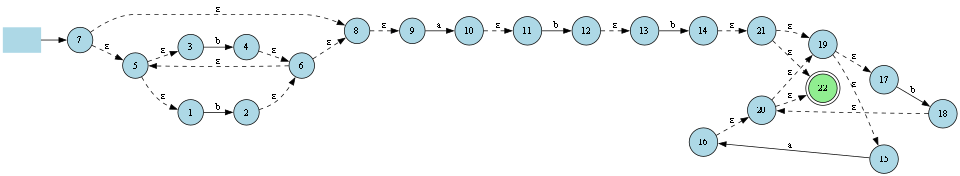
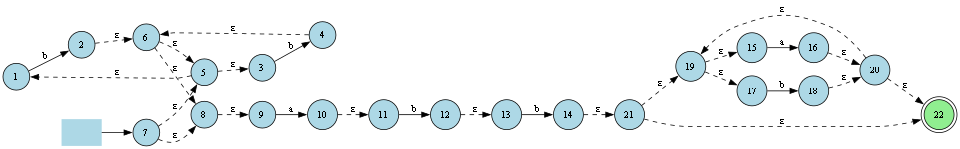
AFD minimizado

Changed region(s): [[0.0, 0.0805, 1.0, 0.9933], [0.125, 0.0537, 0.3438, 0.1074]]

diff --git a/automata.py b/automata.py
@@ -2,6 +2,7 @@ import graphviz
 from collections import deque
 import json
 import os
+from copy import deepcopy
 
 class State:
     def __init__(self, state_id):
@@ -456,6 +457,137 @@ class Automata:
         except Exception as e:
             print(f"Error al generar AFD: {e}")
 
+    def minimize_afd(self, afd: AFD, keep_trap: bool = False) -> AFD:
+        """Minimiza un AFD usando Hopcroft. Si keep_trap=False, intenta remover trampa al final."""
+        afd_tot = deepcopy(afd)
+        Q = set(afd_tot.states)
+        F = set(afd_tot.final_states)
+        A = set(afd_tot.alphabet)
+        delta = afd_tot.transitions
+
+        if not Q:
+            min_dfa = AFD()
+            min_dfa.alphabet = set(A)
+            return min_dfa
+
+        nonF = Q - F
+        P = []
+        if F: P.append(F)
+        if nonF: P.append(nonF)
+
+        W = []
+        if F and nonF: W.append(F if len(F) <= len(nonF) else nonF)
+        elif F: W.append(F)
+        elif nonF: W.append(nonF)
+
+        reverse_delta = {c: {} for c in A}
+        for q in Q:
+            for c in A:
+                t = delta.get(q, {}).get(c, None)
+                if t is None:
+                    continue
+                reverse_delta[c].setdefault(t, set()).add(q)
+
+        while W:
+            A_block = W.pop()
+            for c in A:
+                X = set()
+                for t in A_block:
+                    if t in reverse_delta[c]:
+                        X |= reverse_delta[c][t]
+                if not X:
+                    continue
+                new_P = []
+                for Y in P:
+                    inter, diff = Y & X, Y - X
+                    if inter and diff:
+                        new_P += [inter, diff]
+                        if Y in W:
+                            W.remove(Y); W += [inter, diff]
+                        else:
+                            W.append(inter if len(inter) <= len(diff) else diff)
+                    else:
+                        new_P.append(Y)
+                P = new_P
+
+        block_id = {}
+        for i, block in enumerate(P):
+            for s in block:
+                block_id[s] = i
+
+        min_dfa = AFD()
+        min_dfa.alphabet = set(A)
+        min_dfa.states = set(range(len(P)))
+        min_dfa.start_state = block_id[afd_tot.start_state]
+        min_dfa.final_states = {block_id[s] for s in F}
+
+        for i, block in enumerate(P):
+            rep = next(iter(block))
+            for c in A:
+                to_rep = delta.get(rep, {}).get(c, None)
+                if to_rep is None:
+                    continue
+                j = block_id[to_rep]
+                min_dfa.add_transition(i, c, j)
+
+        self._remove_unreachable_states(min_dfa)
+
+        if not keep_trap:
+            self._remove_dead_trap(min_dfa)
+
+        return min_dfa
+    
+    def _remove_unreachable_states(self, afd: AFD):
+        if afd.start_state is None:
+            return
+        reachable = set()
+        stack = [afd.start_state]
+        while stack:
+            s = stack.pop()
+            if s in reachable: 
+                continue
+            reachable.add(s)
+            for a in afd.alphabet:
+                t = afd.transitions.get(s, {}).get(a, None)
+                if t is not None and t not in reachable:
+                    stack.append(t)
+        # filtrar
+        afd.states = afd.states & reachable
+        afd.final_states = afd.final_states & reachable
+        afd.transitions = {s: {a: t for a, t in trans.items() if t in afd.states}
+                        for s, trans in afd.transitions.items() if s in afd.states}
+
+    def _detect_trap_state(self, afd: AFD):
+            for s in afd.states:
+                if s in afd.final_states:
+                    continue
+                # trampa = no-aceptación y todas las salidas regresan a sí mismo
+                is_trap = True
+                for a in afd.alphabet:
+                    t = afd.transitions.get(s, {}).get(a, None)
+                    if t != s:
+                        is_trap = False
+                        break
+                if is_trap:
+                    return s
+            return None
+
+    def _remove_dead_trap(self, afd: AFD):
+            trap = self._detect_trap_state(afd)
+            if trap is None or trap == afd.start_state:
+                return
+            # quitar referencias al trap y el estado
+            for s in list(afd.transitions.keys()):
+                for a in list(afd.transitions[s].keys()):
+                    if afd.transitions[s][a] == trap:
+                        del afd.transitions[s][a]
+                if not afd.transitions[s]:
+                    del afd.transitions[s]
+            if trap in afd.states:
+                afd.states.remove(trap)
+            if trap in afd.final_states:
+                afd.final_states.remove(trap)
+
 def main():
     automata = Automata()
     
@@ -489,12 +621,26 @@ def main():
         automata.visualize_afn(afn, "afn_graph")
         automata.visualize_afd(afd, "afd_graph")
         
+        print("\n" + "="*50)
+        print("PASO 5: Minimizacion del AFD (Hopcroft)")
+        print("="*50)
+        afd_min = automata.minimize_afd(afd)
+        automata.save_automaton_to_file(afd_min, "afd_min.txt", "AFD")
+        print("AFD minimizado guardado en 'afd_min.txt'")
+
+        print("\n" + "="*50)
+        print("PASO 6: Visualizacion del AFD minimizado")
+        print("="*50)
+        automata.visualize_afd(afd_min, "afd_min_graph")
+
         print("\nArchivos generados:")
         print("- afn.txt (descripcion del AFN)")
         print("- afd.txt (descripcion del AFD)")
+        print("- afd_min.txt (descripcion del AFD minimizado)")
         print("- afn_graph.png (visualizacion del AFN)")
         print("- afd_graph.png (visualizacion del AFD)")
-        # --- Simulaciones ---
+        print("- afd_min_graph.png (visualizacion del AFD minimizado)")
+
         sim_file = "simulations.txt"
         simulations = []
         if os.path.exists(sim_file):
@@ -521,7 +667,6 @@ def main():
             accepted = afd.simulate(s)
             results.append((s, accepted))
 
-        # Guardar resultados en afd_output.txt
         out_file = "afd_output.txt"
         with open(out_file, 'w', encoding='utf-8') as of:
             of.write(f"ESTADO INICIAL = q{afd.start_state}\n")
